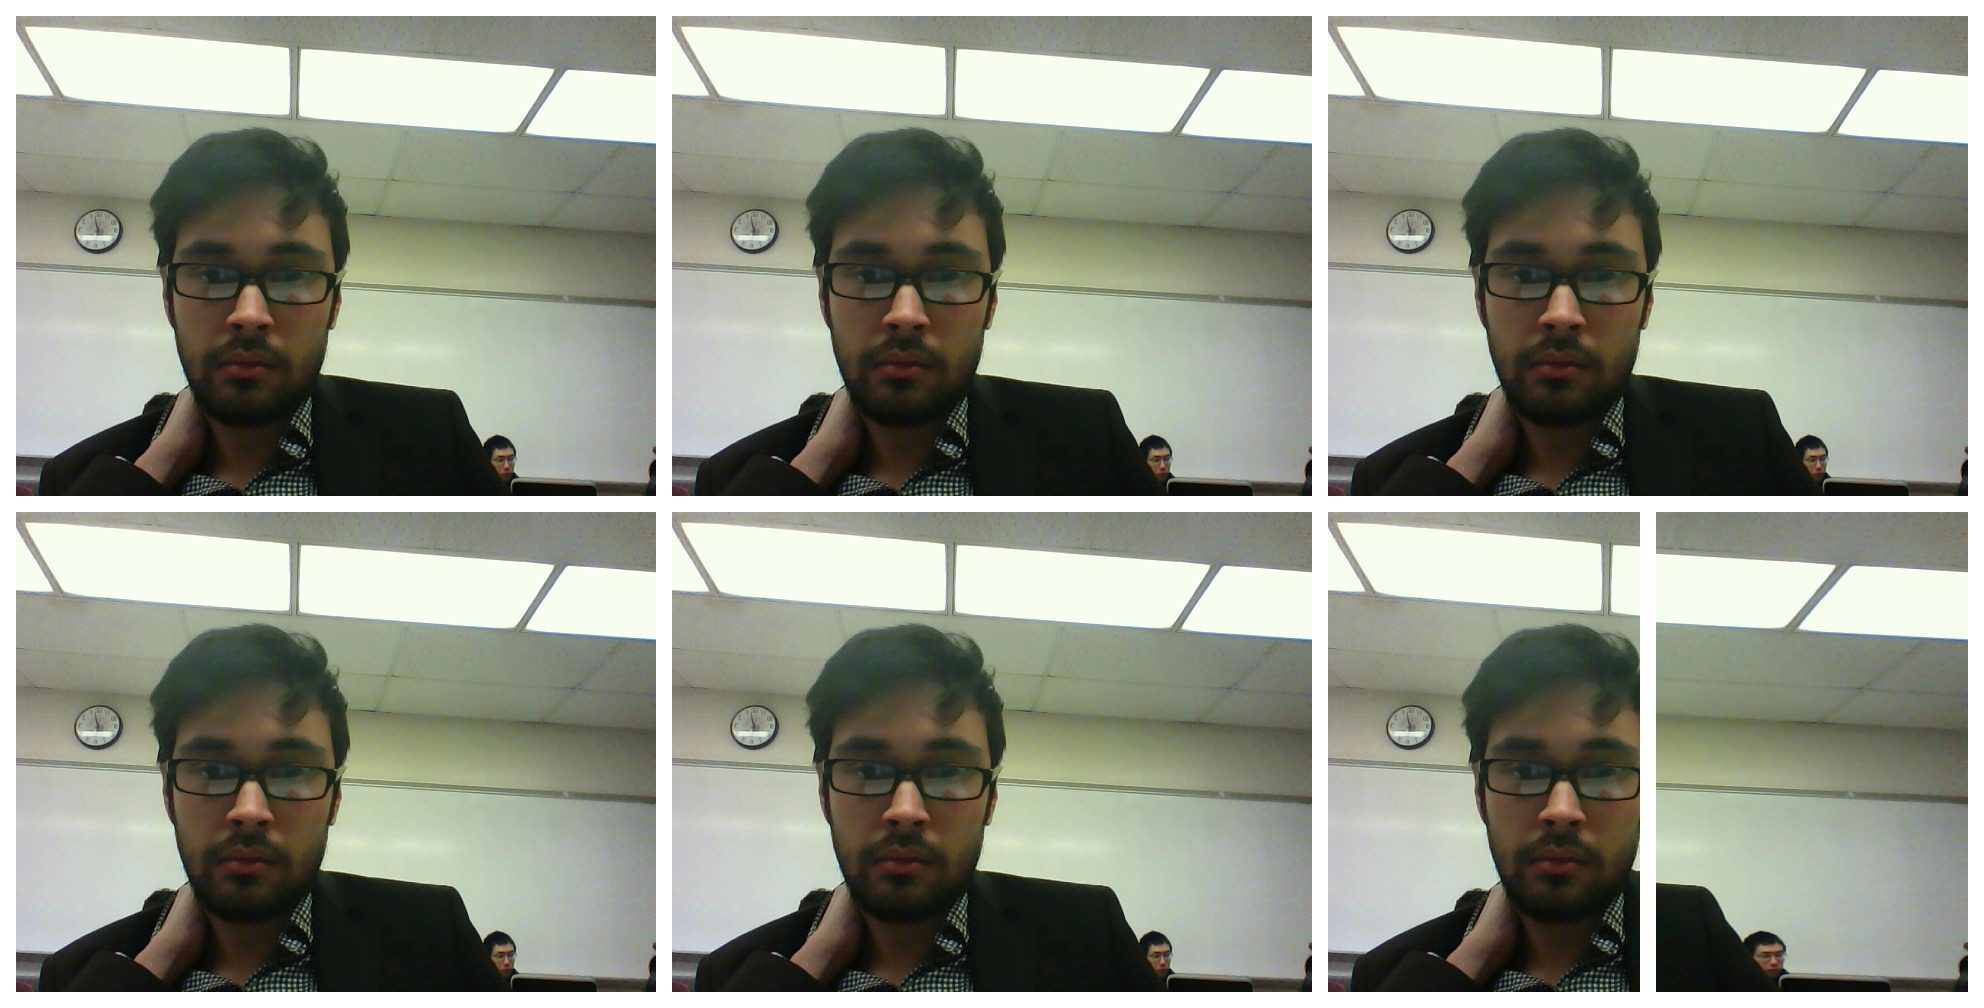
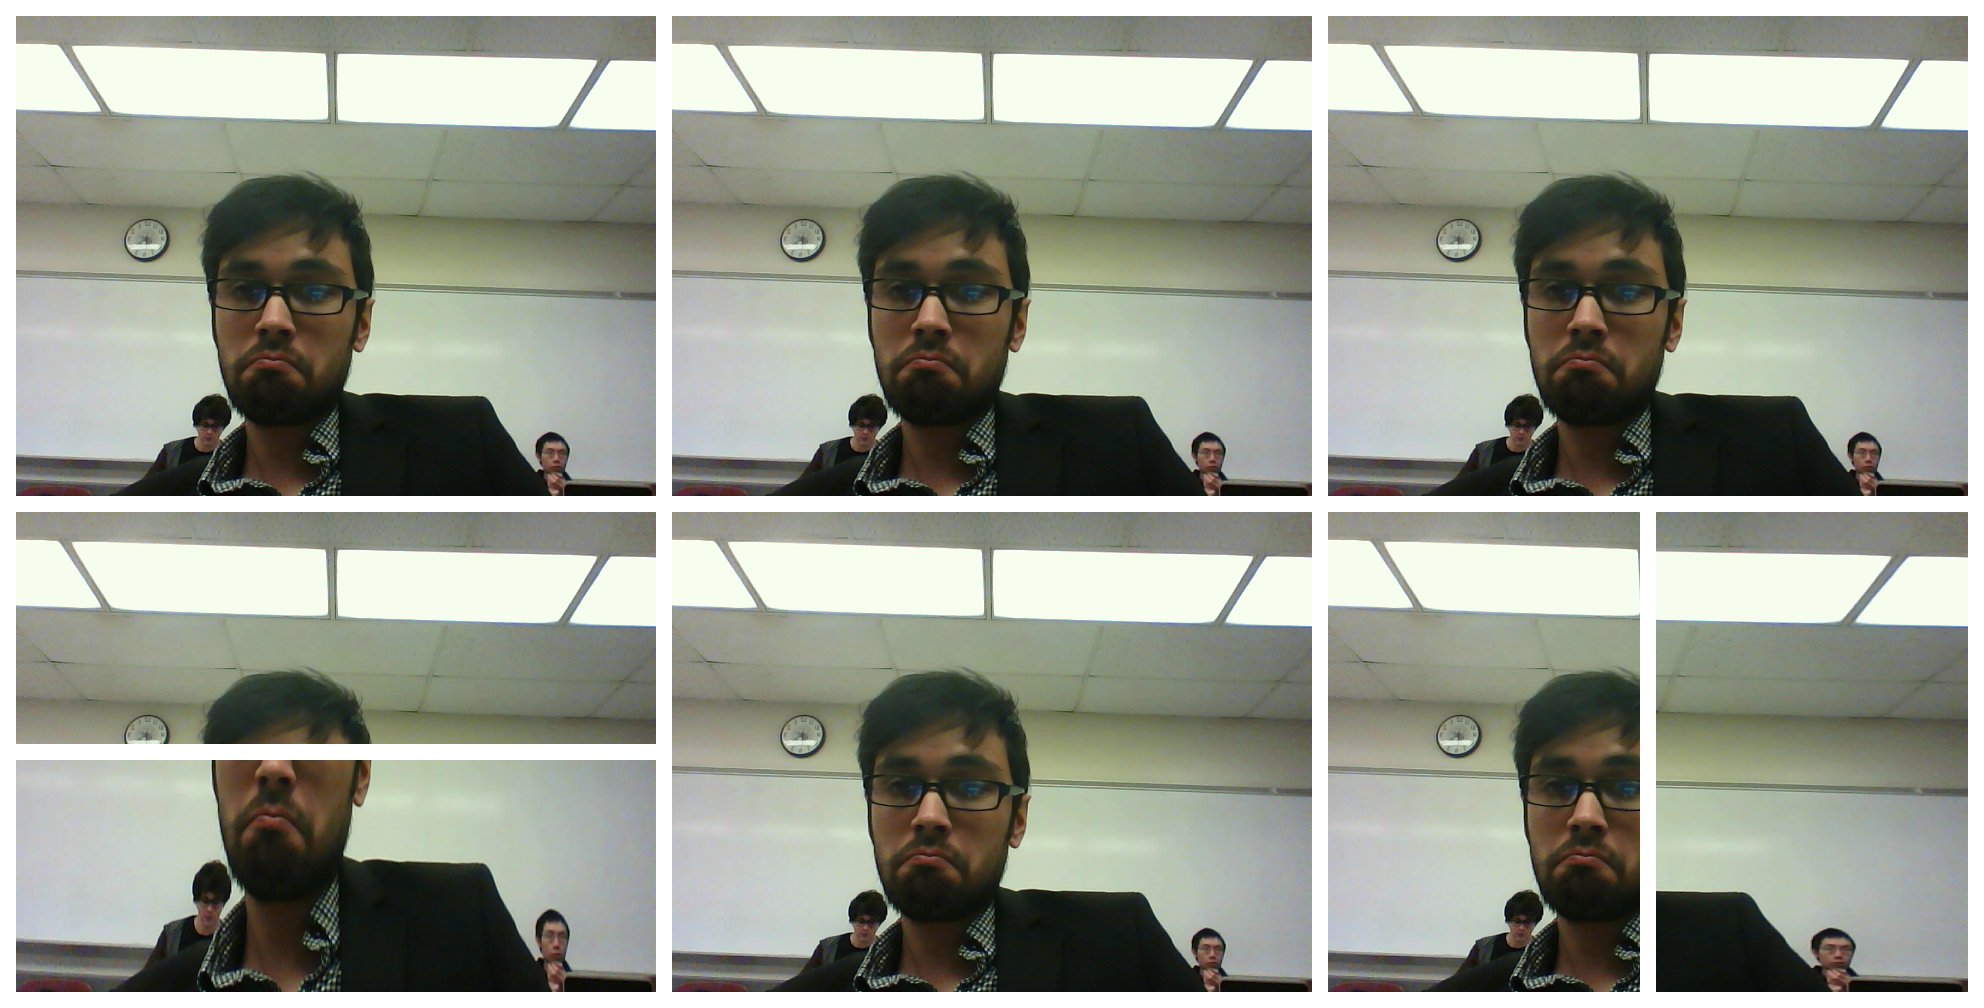
Fixed Export Layout

diff --git a/build-tmp/source/ComicYourself.java b/build-tmp/source/ComicYourself.java
@@ -5294,7 +5294,7 @@ public void mode1exportBlock()
 
     // 2. loop through panels and write them to output pimage
     int numBlocks = 0;
-
+    int numHalves = 0;
     for(int i = 0; i < numPanels; i++)
     {
       boolean written = false;
@@ -5324,7 +5324,7 @@ public void mode1exportBlock()
           int cX2 = border + (640 + border) * ((numBlocks-1)%3);
           // int cY2 = border + 480/2 + 8;
           int cY2 = border + ((numBlocks-1)/3)*(480+border) + 480/2 + 8;
-        if(i > 0 && i%2 == 0)
+        if(i > 0 && numHalves%2 == 1)
         {
           //int cX2 = border + (640 + border) * ((numBlocks)%3);
           // int cY2 = border + 480/2 + 8;
@@ -5336,33 +5336,37 @@ public void mode1exportBlock()
             numBlocks--;
             written = true;
             println("h2 cX2: "+cX2+"   cY2: "+cY2+"  cY: "+cY);
+            numHalves++;
           //}
         }
         else //if(!written)
         {
           comicStrip.copy(Panels.get(i), 0, 0, 640, 480/2-8, cX, cY, 640, 480/2-8);
           println("h1 cX: "+cX+"   cY: "+cY);
+          numHalves++;
         }
       }
       else if(PanelSizes.get(i) == 3) 
       {
-        if(i > 0 && i%2 == 0)
+        if(i > 0 && numHalves%2 == 1)
         {
           int cX3 = border + (640 + border) * ((numBlocks-1)%3) + 640/2 + 8;
           int cY3 = border + ((numBlocks-1)/3)*(480+border);
           //int cY3 = border;
-          if(PanelSizes.get(i-1) == 3 && i%2 == 0)
-          {
+          //if(PanelSizes.get(i-1) == 3 && i%2 == 0)
+          //{
             comicStrip.copy(Panels.get(i), 0, 0, 640/2-8, 480, cX3, cY3, 640/2-8, 480);
             numBlocks--;
             writtenVertical = true;
-            println("v1 cX3: "+cX3+"   cY: "+cY);
-          }
+            println("v2 cX3: "+cX3+"   cY: "+cY);
+            numHalves++;
+          //}
         }
         else //if(!writtenVertical)
         {
           comicStrip.copy(Panels.get(i), 0, 0, 640/2-8, 480, cX, cY, 640/2-8, 480);
-          println("v2 cX: "+cX+"   cY: "+cY);
+          println("v1 cX: "+cX+"   cY: "+cY);
+          numHalves++;
         }
       }
       numBlocks++;
